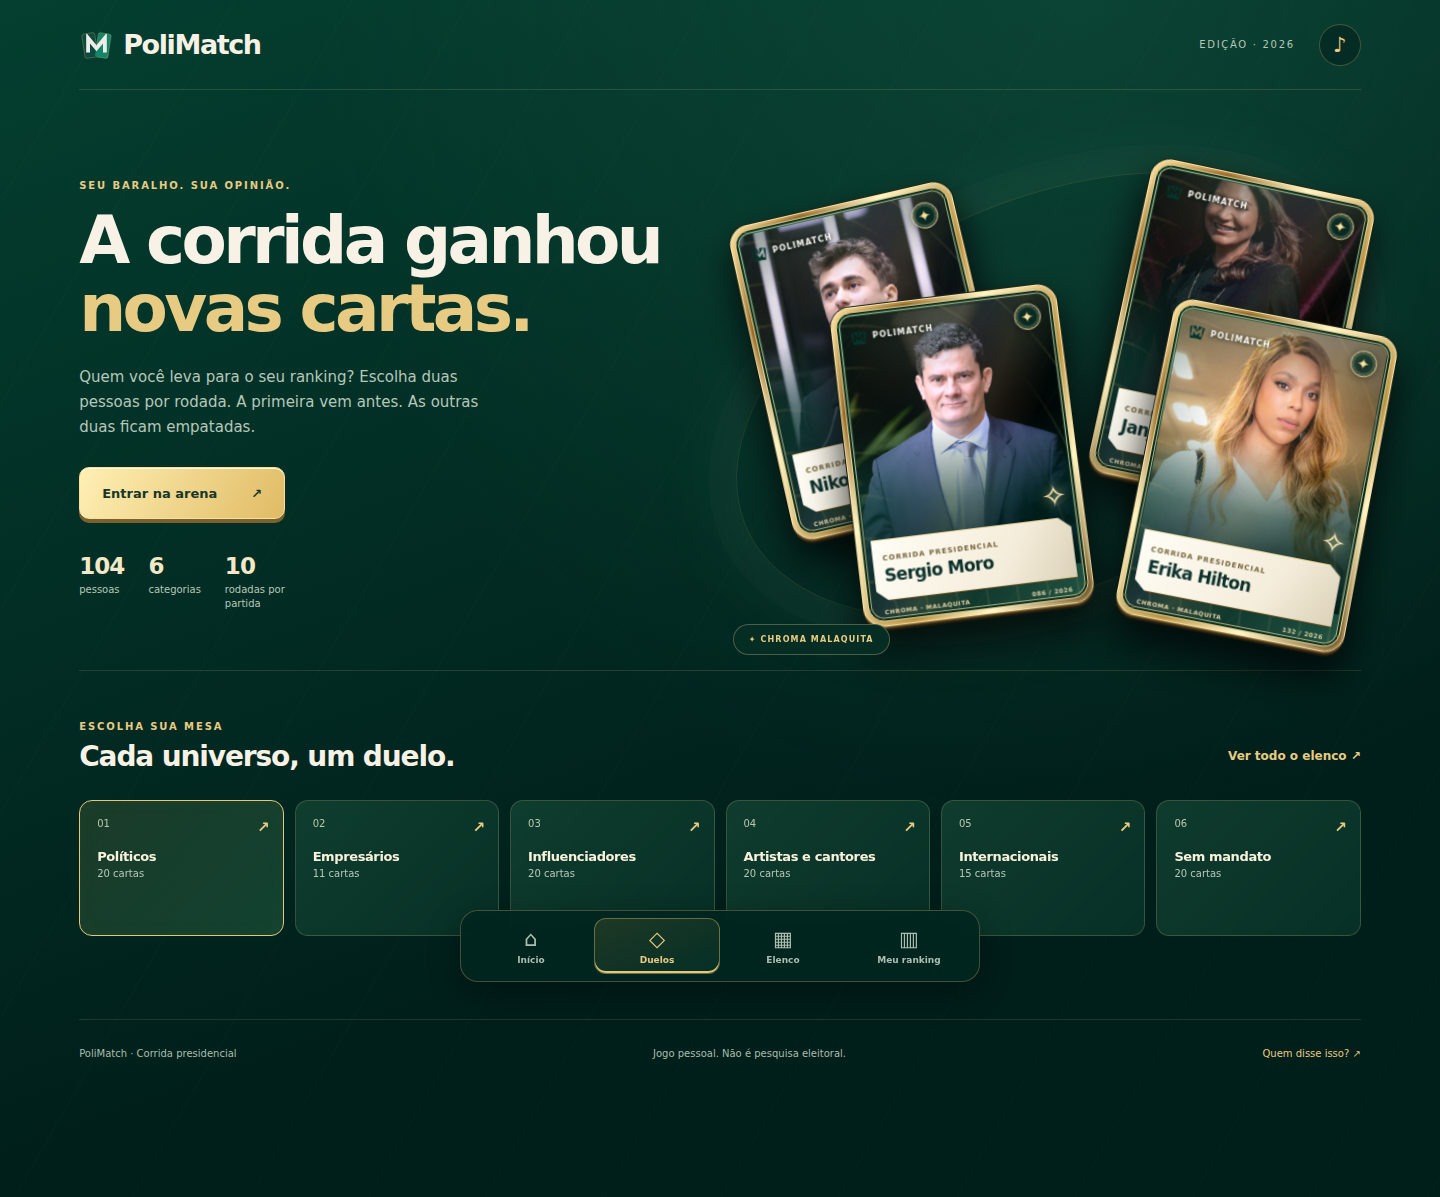
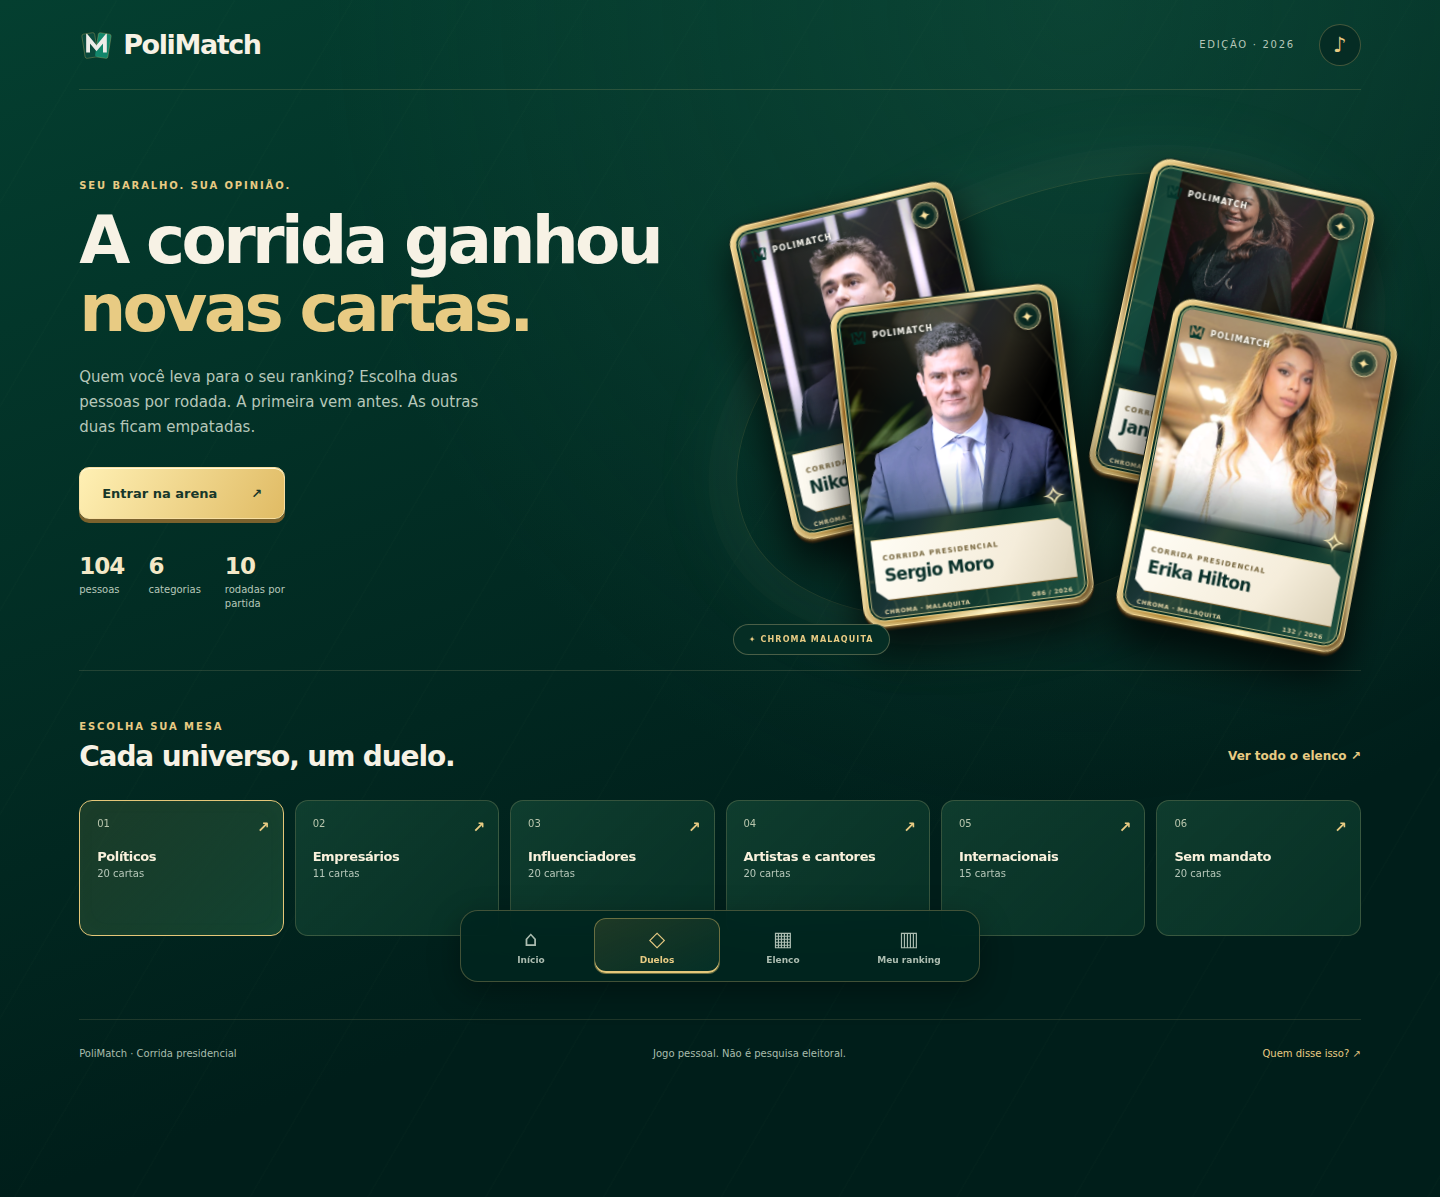
fix: keep presidential portraits inside dedicated card viewports

Changed region(s): [[0.7812, 0.1236, 0.9688, 0.4637], [0.5938, 0.2782, 0.75, 0.4637], [0.5, 0.1546, 0.6562, 0.3709]]

diff --git a/app/src/tcg-card.js b/app/src/tcg-card.js
@@ -12,7 +12,7 @@ export function escapeCardText(value = "") {
 export function portraitStyle(photo = {}) {
   const position = /^(?:center|\d{1,3}% \d{1,3}%)$/.test(photo.position || "")
     ? photo.position
-    : "center 20%";
+    : "center top";
   if (
     photo.crop &&
     [photo.crop.x, photo.crop.y, photo.crop.width].every(Number.isFinite) &&
@@ -27,7 +27,24 @@ export function portraitStyle(photo = {}) {
   const rotation = [-90, 90, 180].includes(photo.rotation)
     ? `transform:rotate(${photo.rotation}deg);`
     : "";
-  return `object-position:${position};${rotation}`;
+  return `object-position:${position};object-fit:${photo.fit === "contain" ? "contain" : "cover"};${rotation}`;
+}
+
+let cropSequence = 0;
+export function portraitMarkup(photo, { alt = "", loading = "eager" } = {}) {
+  const e = escapeCardText;
+  const crop = photo?.crop;
+  if (crop?.height && photo.width && photo.height) {
+    const viewBox = [
+      crop.x * photo.width,
+      crop.y * photo.height,
+      crop.width * photo.width,
+      crop.height * photo.height,
+    ].join(" ");
+    const clip = `portrait-clip-${++cropSequence}`;
+    return `<svg class="portrait-viewport" viewBox="${viewBox}" preserveAspectRatio="xMidYMid meet" ${alt ? `role="img" aria-label="${e(alt)}"` : 'aria-hidden="true"'}><defs><clipPath id="${clip}"><rect x="${crop.x * photo.width}" y="${crop.y * photo.height}" width="${crop.width * photo.width}" height="${crop.height * photo.height}"/></clipPath></defs><image clip-path="url(#${clip})" href="${e(photo.path)}" width="${photo.width}" height="${photo.height}"/></svg>`;
+  }
+  return `<img src="${e(photo?.path || photo || "")}" style="${portraitStyle(photo)}" alt="${e(alt)}" loading="${loading}" decoding="async">`;
 }
 
 export function tcgCardMarkup(
@@ -35,10 +52,9 @@ export function tcgCardMarkup(
   { decorative = false, category = "Corrida presidencial", index = 0 } = {},
 ) {
   const e = escapeCardText;
-  const image = person.photo?.path || person.photo || "";
   const serial = String(person.personId || index + 1).padStart(3, "0");
   const content = `<span class="tcg-edge" aria-hidden="true"></span>
-    <span class="tcg-art"><img src="${e(image)}" style="${portraitStyle(person.photo)}" alt="${decorative ? "" : `Retrato de ${e(person.name)}`}" ${decorative ? 'loading="eager"' : 'decoding="async"'}></span>
+    <span class="tcg-art">${portraitMarkup(person.photo, { alt: decorative ? "" : `Retrato de ${person.name}` })}</span>
     <span class="tcg-foil" aria-hidden="true"></span><span class="tcg-etching" aria-hidden="true"></span>
     <span class="tcg-top" aria-hidden="true"><img src="./brand/symbol-monochrome.svg" alt=""><span>POLIMATCH</span><b>✦</b></span>
     <span class="tcg-choice" aria-hidden="true" hidden></span>

diff --git a/app/src/presidential-page.js b/app/src/presidential-page.js
@@ -18,7 +18,7 @@ import { createSoundController } from "./sound.js";
 import { installChromaMotion } from "./chroma-motion.js";
 import {
   tcgCardMarkup,
-  portraitStyle,
+  portraitMarkup,
   escapeCardText as e,
 } from "./tcg-card.js";
 import {
@@ -425,7 +425,7 @@ function renderRoster(query = "") {
     filtered
       .map(
         (p) =>
-          `<button type="button" class="roster-person" data-profile="${p.id}"><span class="portrait-thumb"><img src=".${e(p.photo.path)}" style="${portraitStyle(p.photo)}" alt="" loading="lazy"></span><span><strong>${e(p.name)}</strong><small>${e(supportLabel(p, rosterAll ? null : category.id))}</small></span><b aria-hidden="true">↗</b></button>`,
+          `<button type="button" class="roster-person" data-profile="${p.id}"><span class="portrait-thumb">${portraitMarkup(p.photo, { loading: "lazy" })}</span><span><strong>${e(p.name)}</strong><small>${e(supportLabel(p, rosterAll ? null : category.id))}</small></span><b aria-hidden="true">↗</b></button>`,
       )
       .join("") || "<p>Nenhuma pessoa encontrada.</p>";
 }
@@ -443,7 +443,7 @@ function renderRanking() {
     played
       .map(
         (p) =>
-          `<li><span>${p.rank ?? "—"}</span><span class="portrait-thumb"><img src=".${e(byId.get(p.id)?.photo.path || "")}" style="${portraitStyle(byId.get(p.id)?.photo)}" alt=""></span><strong>${e(byId.get(p.id)?.name || p.name)}</strong><span>${p.elo} <small>pontos</small></span></li>`,
+          `<li><span>${p.rank ?? "—"}</span><span class="portrait-thumb">${portraitMarkup(byId.get(p.id)?.photo)}</span><strong>${e(byId.get(p.id)?.name || p.name)}</strong><span>${p.elo} <small>pontos</small></span></li>`,
       )
       .join("") ||
     "<li>Você ainda não confirmou escolhas nesta categoria.</li>";

diff --git a/shared/presidential-curation.js b/shared/presidential-curation.js
@@ -71,6 +71,19 @@ export function validatePresidentialRoster(
           person.photo.crop.x + person.photo.crop.width > 1)
       )
         throw new TypeError(`Recorte inválido: ${person.id}`);
+      if (
+        person.photo.crop?.height !== undefined &&
+        (!Number.isFinite(person.photo.crop.height) ||
+          person.photo.crop.height <= 0 ||
+          person.photo.crop.y + person.photo.crop.height > 1 ||
+          !Number.isSafeInteger(person.photo.width) ||
+          !Number.isSafeInteger(person.photo.height) ||
+          person.photo.width <= 0 ||
+          person.photo.height <= 0)
+      )
+        throw new TypeError(`Janela de retrato inválida: ${person.id}`);
+      if (person.photo.fit && !["cover", "contain"].includes(person.photo.fit))
+        throw new TypeError(`Ajuste de retrato inválido: ${person.id}`);
     } else if (requirePhotos)
       throw new TypeError(`Retrato ausente: ${person.id}`);
     for (const membership of person.memberships) {

diff --git a/app/src/presidential-session.test.js b/app/src/presidential-session.test.js
@@ -80,3 +80,23 @@ test("TCG card keeps one visible name, escapes markup, differentiates decorative
   assert.ok(!decorative.includes("<button"));
   assert.match(decorative, /aria-hidden="true"/);
 });
+
+test("portrait viewports preserve aspect ratio and use unique clipping boundaries", async () => {
+  const { portraitMarkup } = await import("./tcg-card.js");
+  const photo = {
+    path: "/portraits/presidential/source.png",
+    width: 800,
+    height: 700,
+    crop: { x: 0.3, y: 0.2, width: 0.2, height: 0.5 },
+  };
+  const markup = portraitMarkup(photo);
+  assert.match(markup, /viewBox="240 140 160 350"/);
+  assert.match(markup, /preserveAspectRatio="xMidYMid meet"/);
+  assert.match(markup, /<clipPath/);
+  assert.match(markup, /href="\/portraits\/presidential\/source.png"/);
+  assert.notEqual(
+    markup,
+    portraitMarkup(photo),
+    "clip IDs must be unique across a card, roster and profile",
+  );
+});

diff --git a/app/src/tcg-card.css b/app/src/tcg-card.css
@@ -56,7 +56,7 @@
 .tcg-art {
   position: absolute;
   z-index: 2;
-  inset: 9px 9px 12%;
+  inset: 9px 9px 100px;
   overflow: hidden;
   border-radius: 10px 10px 0 0;
   background: #0a3f33;
@@ -290,7 +290,7 @@
     border-radius: 12px;
   }
   .tcg-art {
-    inset: 7px 7px 13%;
+    inset: 7px 7px 81px;
     border-radius: 8px 8px 0 0;
   }
   .tcg-top {
@@ -350,4 +350,22 @@
     transform: none !important;
     transition: none;
   }
+}
+
+.tcg-card [hidden] {
+  display: none !important;
+}
+.portrait-viewport {
+  display: block;
+  width: 100%;
+  height: 100%;
+}
+.tcg-art::after {
+  background: linear-gradient(
+    180deg,
+    #001c1933,
+    transparent 25% 75%,
+    #002a2244 95%,
+    #001c19 100%
+  );
 }

diff --git a/stages/22_presidential_chroma_duels/output/HANDOFF.md b/stages/22_presidential_chroma_duels/output/HANDOFF.md
@@ -2,7 +2,7 @@
 
 Issue: https://github.com/stefancabral-oss/polimatch/issues/249
 PR: https://github.com/stefancabral-oss/polimatch/pull/250
-Código validado: https://github.com/stefancabral-oss/polimatch/commit/2dbdcd631877a127811f4d8accd5bbce5ba2947b
+Primeira implementação: https://github.com/stefancabral-oss/polimatch/commit/2dbdcd631877a127811f4d8accd5bbce5ba2947b
 Branch: `feat/presidential-chroma-duels`
 Base: `dac70018ac1c37c2e1abf004a8bb4d622ed31e7e`
 
@@ -12,7 +12,7 @@ Base: `dac70018ac1c37c2e1abf004a8bb4d622ed31e7e`
 - 104 identidades únicas, 107 vínculos em seis categorias: 20 políticos, 11 empresários, 20 influenciadores, 20 artistas/cantores, 15 internacionais e 20 lideranças sem mandato. Soma por categoria contém repetições autorizadas; o baralho de uma categoria nunca duplica uma identidade.
 - Mantidas as lacunas das listas anteriores: não inventa oito empresários nem cinco internacionais de apoio a Lula. Erasmo integra os dois apoios como uma única carta. Pablo tem uma identidade em três categorias.
 - Michelle, Jair, Eduardo Bolsonaro e Romeu Zema ficam fora desta curadoria; o histórico da edição original permanece íntegro.
-- Retratos locais com SHA-256 e origem em `shared/presidential-roster.json`. Fontes originais preservadas byte a byte. Enquadramento/orientação são propriedades do componente, sem gerar pessoas ou fatos.
+- Retratos locais com SHA-256 e origem em `shared/presidential-roster.json`. Fontes originais preservadas byte a byte. Enquadramento/orientação são propriedades do componente, sem gerar pessoas ou fatos. Janelas recortadas preservam a proporção, e o nome não ocupa a região reservada ao retrato.
 - Elenco completo, busca sem acentos, filtros por categoria e perfis com fontes. Não promove perfis editoriais pendentes a aprovados.
 - Partida pessoal de dez rodadas, quatro cartas por mesa. Dois toques distintos confirmam 1ª +24, 2ª +8, demais −16 cada. Escolhas, ranking e versão são confirmados pela API existente.
 - Repetição após perda da resposta usa os mesmos UUID, cartas e ordem. Conta trocada em outra aba invalida respostas antigas. Nenhuma confirmação offline.
@@ -20,7 +20,7 @@ Base: `dac70018ac1c37c2e1abf004a8bb4d622ed31e7e`
 - Compartilhamento iniciado pelo jogador, cópia e texto manual alternativos; reiniciar a partida não apaga ranking/histórico.
 
 ## Verificação
-- Suíte completa local: 93 testes compartilhados, 232 backend, 211 frontend, todos aprovados.
+- Suíte completa local: 93 testes compartilhados, 232 backend, 212 frontend, todos aprovados.
 - Build e validação de assets/retratos/fingerprint aprovadas; piloto bloqueado #176 continua fora do pacote.
 - Chromium: celular e desktop, dez rodadas completas, replay após perda de resposta + reload, offline/reconexão, seis categorias, todos os perfis, busca, fontes, som, ranking, compartilhar e reiniciar.
 - Geometria: 320, 375, 768 e 1440 px; quatro cartas na mesma linha no desktop, grade 2×2 no celular, sem overflow horizontal.
